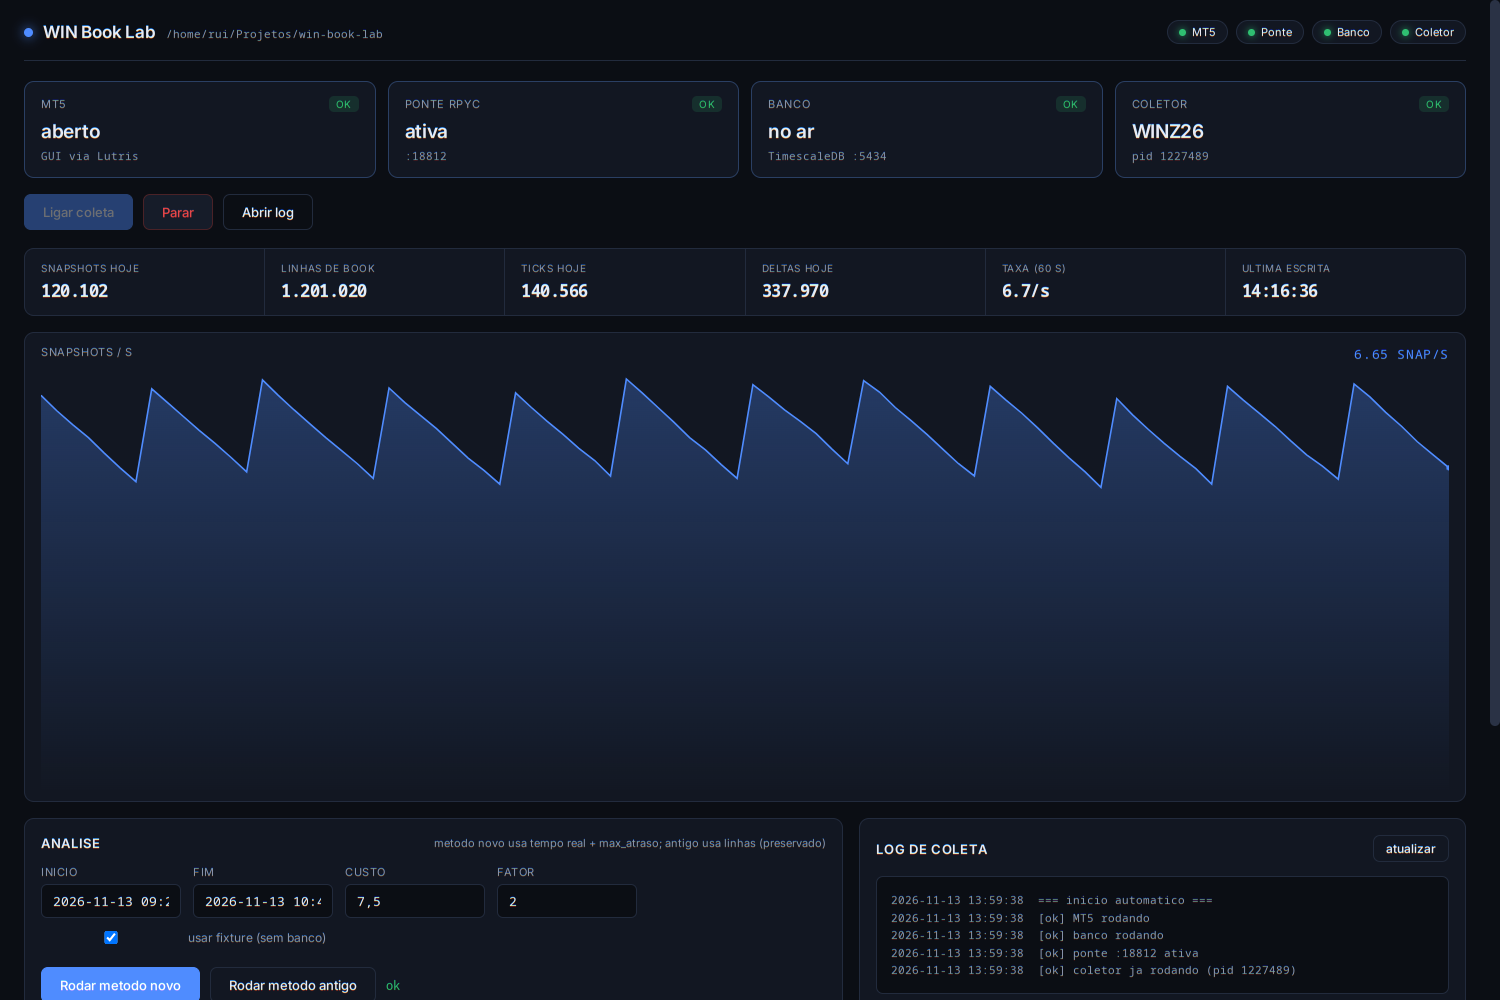
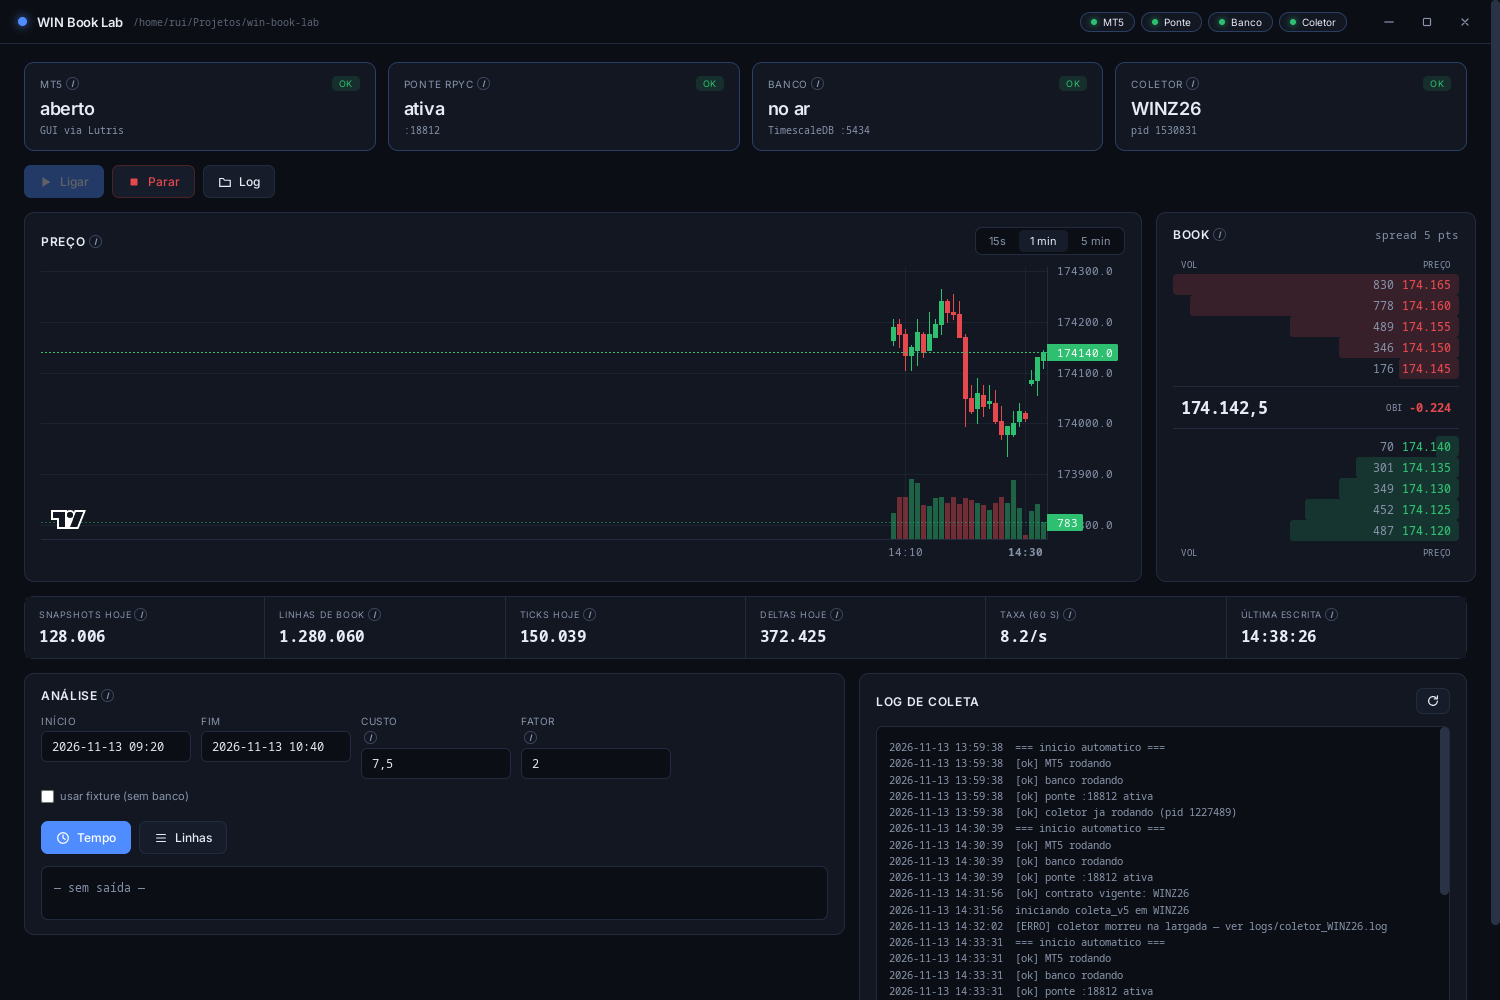
Grafico fiel ao MT5 + flush de 2s: corrige 'diferente do MT5' e 'taxa minima'
Dois problemas relatados pelo dono. Nenhum era o que parecia.

1) GRAFICO DIFERENTE DO MT5
   Causa real: o eixo estava em UTC. O banco guarda timestamptz, extract(epoch)
   devolve UTC e o lightweight-charts mostra o que recebe — o eixo dizia 17:25
   quando eram 14:25, o que desalinha tudo visualmente.
   Correcao: TZ_OFFSET de -3h ao montar o time do chart.
   Segunda causa: os candles vinham do MID (construcao nossa) em bucket de 5 s.
   Trocado para tick.last — o preco negociado, que e o que o MT5 desenha — em
   bucket de 1 min (com 15s/5min como opcao). getSeries() -> getCandles().
   PROVA: candle a candle contra copy_rates_from_pos(M1). 14:36 fechou identico
   (174085 = 174085); 14:37 e 14:38 diferem 1-2 ticks porque o candle do banco
   ainda esta em formacao.

2) TAXA DE ATUALIZACAO MINIMA
   Causa real: NAO era a UI. O coletor rodava com --flush-seg 15, ou seja,
   acumulava 15 s antes de gravar. O banco so via dado novo a cada 15 s.
   Correcao: FLUSH_SEG=2 em coleta_auto.sh; o painel passou a atualizar o
   grafico a 1 s com series.update() incremental (setData completo so a cada
   30 s para backfill). Medido: 11-14 ticks e ~100 linhas de book por 2 s,
   candle evoluindo 174085/vol=23 -> 174090/vol=62 -> 174090/vol=200.

3) BUGS ENCONTRADOS NO CAMINHO (todos com causa medida)
   - symbols_get() devolve 52.506 simbolos em 39 s e travava o auto-start.
     Extraido scripts/detecta_contrato.py: 24 candidatos via symbol_info,
[…]

diff --git a/app/renderer/app.js b/app/renderer/app.js
@@ -2,8 +2,11 @@
 let chartApi = null;          // lightweight-charts
 let candleSeries = null;
 let volSeries = null;
-let minutos = 5;              // janela do grafico
+let minutos = 30;             // janela do grafico (min)
+let bucket = 60;              // segundos por candle
 let busySeries = false;
+let ultimoSetData = 0;
+const TZ_OFFSET = 3 * 3600;   // MT5/banco guarda em UTC+0; exibimos BRT (UTC-3)
 
 const $ = id => document.getElementById(id);
 const fmt = n => (n === undefined || n === null || isNaN(n)) ? '—' : n.toLocaleString('pt-BR');
@@ -156,38 +159,40 @@ function initChart() {
   setTimeout(resize, 60);
 }
 
-// agrega pontos (1/s) em candles de `bucket` segundos + volume
-function toCandles(pontos, bucket = 5) {
-  const map = new Map();
-  for (const p of pontos) {
-    const b = Math.floor(p.ts / 1000 / bucket) * bucket;
-    if (!map.has(b)) map.set(b, { o: p.mid, h: p.mid, l: p.mid, c: p.mid, v: 0 });
-    const c = map.get(b);
-    c.h = Math.max(c.h, p.mid);
-    c.l = Math.min(c.l, p.mid);
-    c.c = p.mid;
-    c.v += p.vol;
-  }
-  const candles = [], volumes = [];
-  for (const [t, c] of [...map.entries()].sort((a, b) => a[0] - b[0])) {
+// Converte candles do banco para o formato do lightweight-charts.
+// O banco entrega epoch em UTC; o chart exibe o que recebe, entao deslocamos
+// para BRT — senao o eixo mostra 17:25 quando sao 14:25.
+function paraChart(cs) {
+  const candles = [], vols = [];
+  for (const c of cs) {
+    const t = c.ts - TZ_OFFSET;
     candles.push({ time: t, open: c.o, high: c.h, low: c.l, close: c.c });
-    volumes.push({
+    vols.push({
       time: t, value: c.v,
-      color: c.c >= c.o ? 'rgba(47,191,113,.42)' : 'rgba(229,72,77,.42)',
+      color: c.c >= c.o ? 'rgba(47,191,113,.45)' : 'rgba(229,72,77,.45)',
     });
   }
-  return { candles, volumes };
+  return { candles, vols };
 }
 
-async function carregaGrafico() {
+async function carregaGrafico(completo = false) {
   if (busySeries || !candleSeries) return;
   busySeries = true;
   try {
-    const r = await window.lab.series(minutos);
-    if (r.erro || !r.pontos || !r.pontos.length) return;
-    const { candles, volumes } = toCandles(r.pontos, 5);
-    candleSeries.setData(candles);
-    volSeries.setData(volumes);
+    const r = await window.lab.candles(minutos, bucket);
+    if (r.erro || !r.candles || !r.candles.length) return;
+    const { candles, vols } = paraChart(r.candles);
+
+    // setData completo a cada 30 s (backfill); entre isso, so o ultimo candle
+    const agora = Date.now();
+    if (completo || candles.length < 2 || agora - ultimoSetData > 30000) {
+      candleSeries.setData(candles);
+      volSeries.setData(vols);
+      ultimoSetData = agora;
+    } else {
+      candleSeries.update(candles[candles.length - 1]);
+      volSeries.update(vols[vols.length - 1]);
+    }
   } catch (e) {
     console.error('grafico:', e);
   } finally {
@@ -202,7 +207,9 @@ $('tf').addEventListener('click', e => {
   [...$('tf').children].forEach(x => x.classList.remove('on'));
   b.classList.add('on');
   minutos = parseInt(b.dataset.min, 10);
-  carregaGrafico();
+  bucket = parseInt(b.dataset.bucket, 10);
+  ultimoSetData = 0;             // forca setData completo ao trocar de janela
+  carregaGrafico(true);
 });
 
 // ==================== loop ====================
@@ -281,7 +288,7 @@ window.addEventListener('unhandledrejection', e => {
     $('repo-path').textContent = await window.lab.repo();
     $('log-out').textContent = await window.lab.logtail();
     await tick();
-    await carregaGrafico();
+    await carregaGrafico(true);
   } catch (err) {
     window.__erros.push('boot: ' + err.message);
     $('log-out').textContent = 'FALHA NO BOOT: ' + err.message + '\n' + err.stack;
@@ -289,7 +296,7 @@ window.addEventListener('unhandledrejection', e => {
     return;
   }
 
-  setInterval(tick, 2000);            // status, metricas, book
-  setInterval(carregaGrafico, 5000);  // grafico
+  setInterval(tick, 1500);                    // status, metricas, book
+  setInterval(() => carregaGrafico(false), 1000);  // grafico a 1 s, incremental
   window.__ready = true;              // sinaliza boot completo (usado nos testes)
 })();

diff --git a/app/lib/lab.js b/app/lib/lab.js
@@ -153,40 +153,46 @@ async function getBook() {
   };
 }
 
-// ---------- SERIE PARA O GRAFICO ----------
-function sqlSerie(min) {
+// ---------- CANDLES (fieis ao MT5) ----------
+// Usa o preco NEGOCIADO (tick.last), que e o que o MT5 mostra no grafico.
+// Nao usa mid: mid e construcao nossa e diverge do candle do MT5.
+function sqlCandles(min, bucket) {
   return `
-WITH b AS (
-  SELECT date_trunc('second', ts) t,
-    (max(CASE WHEN lado=2 THEN preco END) + min(CASE WHEN lado=1 THEN preco END)) / 2.0 AS mid
-  FROM book WHERE ts >= now() - interval '${min} minutes' GROUP BY 1
-),
-v AS (
-  SELECT date_trunc('second', ts) t, sum(volume) vol
-  FROM tick WHERE ts >= now() - interval '${min} minutes' GROUP BY 1
+WITH x AS (
+  SELECT to_timestamp(floor(extract(epoch FROM ts) / ${bucket}) * ${bucket}) AS b,
+         last, volume, ts AS tr
+  FROM tick
+  WHERE ts >= now() - interval '${min} minutes' AND last > 0
 )
-SELECT extract(epoch FROM b.t)::bigint AS ts, round(b.mid::numeric,1) AS mid, COALESCE(v.vol,0) AS vol
-FROM b LEFT JOIN v ON b.t = v.t ORDER BY b.t;
+SELECT extract(epoch FROM b)::bigint AS ts,
+       (array_agg(last ORDER BY tr))[1]      AS o,
+       max(last)                            AS h,
+       min(last)                            AS l,
+       (array_agg(last ORDER BY tr DESC))[1] AS c,
+       sum(volume)                          AS v
+FROM x GROUP BY b ORDER BY b;
 `;
 }
 
-async function getSeries(min = 10) {
-  const m = Math.max(1, Math.min(120, parseInt(min, 10) || 10));  // clamp, sem injecao
+async function getCandles(min = 30, bucket = 60) {
+  const m = Math.max(1, Math.min(180, parseInt(min, 10) || 30));
+  const b = Math.max(5, Math.min(300, parseInt(bucket, 10) || 60));
   const r = await run('docker', ['exec', 'mercado-db', 'psql', '-U', 'postgres',
-    '-d', 'mercado', '-t', '-A', '-F', '|', '-c', sqlSerie(m)]);
-  if (!r.ok) return { erro: r.err.split('\n')[0] || 'banco indisponivel', pontos: [] };
-  const pontos = [];
+    '-d', 'mercado', '-t', '-A', '-F', '|', '-c', sqlCandles(m, b)]);
+  if (!r.ok) return { erro: r.err.split('\n')[0] || 'banco indisponivel', candles: [] };
+  const candles = [];
   for (const ln of r.out.split('\n')) {
     if (!ln) continue;
-    const [ts, mid, vol] = ln.split('|');
-    if (!ts || !mid) continue;
-    pontos.push({ ts: +ts * 1000, mid: +mid, vol: +vol });
+    const [ts, o, h, l, c, v] = ln.split('|');
+    if (!ts) continue;
+    candles.push({ ts: +ts, o: +o, h: +h, l: +l, c: +c, v: +v });
   }
-  return { pontos, minutos: m };
+  return { candles, minutos: m, bucket: b };
 }
+
 
 module.exports = {
   REPO, VENV_PY, LOG_DIR, DSN, run,
   getStatus, dbStats, startCollection, stopCollection, runAnalysis, tailLog, listLogs,
-  getBook, getSeries,
+  getBook, getCandles,
 };

diff --git a/app/renderer/index.html b/app/renderer/index.html
@@ -108,12 +108,12 @@
     <div class="panel chart-panel">
       <div class="panel-head">
         <h2>Preço
-          <span class="info" data-tip="Mid = (melhor bid + melhor ask) / 2, agregado por segundo. Candles de 5 s montados no cliente. Barras embaixo = volume negociado por segundo.">i</span>
+          <span class="info" data-tip="Candles do preço NEGOCIADO (tick.last), igual ao gráfico do MT5 — não é mid. Fuso em BRT. Barras embaixo = volume negociado no candle. Atualiza a cada segundo.">i</span>
         </h2>
         <div class="seg" id="tf">
-          <button data-min="5" class="on">5 min</button>
-          <button data-min="10">10 min</button>
-          <button data-min="30">30 min</button>
+          <button data-min="10" data-bucket="15">15s</button>
+          <button data-min="30" data-bucket="60" class="on">1 min</button>
+          <button data-min="120" data-bucket="300">5 min</button>
         </div>
       </div>
       <div id="chart" class="chart"></div>

diff --git a/app/main.js b/app/main.js
@@ -31,7 +31,7 @@ function createWindow() {
 ipcMain.handle('status',   () => lab.getStatus());
 ipcMain.handle('dbstats',  () => lab.dbStats());
 ipcMain.handle('book',     () => lab.getBook());
-ipcMain.handle('series',   (_e, min) => lab.getSeries(min));
+ipcMain.handle('candles',  (_e, min, bucket) => lab.getCandles(min, bucket));
 ipcMain.handle('start',    () => lab.startCollection());
 ipcMain.handle('stop',     () => lab.stopCollection());
 ipcMain.handle('analysis', (_e, m, o) => lab.runAnalysis(m, o));

diff --git a/app/preload.js b/app/preload.js
@@ -4,7 +4,7 @@ contextBridge.exposeInMainWorld('lab', {
   status:    () => ipcRenderer.invoke('status'),
   dbstats:   () => ipcRenderer.invoke('dbstats'),
   book:      () => ipcRenderer.invoke('book'),
-  series:    (min) => ipcRenderer.invoke('series', min),
+  candles:   (min, bucket) => ipcRenderer.invoke('candles', min, bucket),
   start:     () => ipcRenderer.invoke('start'),
   stop:      () => ipcRenderer.invoke('stop'),
   analysis:  (method, opts) => ipcRenderer.invoke('analysis', method, opts),

diff --git a/scripts/detecta_contrato.py b/scripts/detecta_contrato.py
@@ -1,0 +1,80 @@
+#!/usr/bin/env python3
+"""Detecta o contrato WIN vigente (o de vencimento mais proximo ainda nao vencido).
+
+POR QUE NAO USA symbols_get():
+    mt5.symbols_get() devolve 52.506 simbolos e leva 39 s (medido 13/11/2026).
+    Testar 24 candidatos com symbol_info() leva 0,45 s.
+
+USO:
+    python scripts/detecta_contrato.py            # imprime o simbolo, ou vazio
+    python scripts/detecta_contrato.py --verbose  # mostra os candidatos
+
+Sai com codigo 0 e simbolo vazio se a ponte estiver fora — quem chama decide.
+"""
+import sys
+import datetime
+
+PONTE = "127.0.0.1"
+PORTA = 18812
+# letras de vencimento do WIN na B3 (F=jan, G=fev, H=mar, J=abr, K=mai, M=jun,
+# N=jul, Q=ago, U=set, V=out, X=nov, Z=dez)
+LETRAS = "FGHJKMNQUVXZ"
+
+
+def candidatos(mt5, hoje):
+    """Contratos WIN existentes e nao vencidos, ordenados por vencimento."""
+    out = []
+    for ano in (hoje.year, hoje.year + 1):
+        for i, letra in enumerate(LETRAS):
+            nome = f"WIN{letra}{ano % 100:02d}"
+            if mt5.symbol_info(nome) is None:
+                continue
+            venc = datetime.date(ano, i + 1, 15)   # vencimento ~dia 15
+            if venc >= hoje:
+                out.append((venc, nome))
+    out.sort()
+    return out
+
+
+def detecta(verbose=False):
+    try:
+        import rpyc
+    except ImportError:
+        print("rpyc nao instalado", file=sys.stderr)
+        return ""
+
+    try:
+        c = rpyc.classic.connect(PONTE, PORTA)
+        c._config["sync_request_timeout"] = 20
+        mt5 = c.modules["MetaTrader5"]
+        if not mt5.initialize():
+            print("initialize falhou", file=sys.stderr)
+            return ""
+        cand = candidatos(mt5, datetime.date.today())
+        if verbose:
+            for v, n in cand:
+                print(f"  {n}  vence {v}", file=sys.stderr)
+        return cand[0][1] if cand else ""
+    except Exception as e:
+        print(f"erro na ponte: {e}", file=sys.stderr)
+        return ""
+
+
+if __name__ == "__main__":
+    verbose = "--verbose" in sys.argv or "-v" in sys.argv
+    simbolo = detecta(verbose)
+
+    if not simbolo:
+        try:
+            import rpyc  # noqa: F401
+        except ImportError:
+            sys.exit(3)          # sem rpyc
+        sys.exit(2)              # ponte fora ou nada encontrado
+
+    # rejeita qualquer coisa que nao seja WIN<letra><2 digitos>
+    import re
+    if not re.fullmatch(r"WIN[FGHJKMNQUVXZ]\d{2}", simbolo):
+        print(f"simbolo inesperado: {simbolo}", file=sys.stderr)
+        sys.exit(4)
+
+    print(simbolo)

diff --git a/app/README.md b/app/README.md
@@ -65,6 +65,30 @@ idempotencia do `start`.
   com array de argumentos, nao por shell
 - O app nunca envia ordem nem escreve no banco
 
+## Fidelidade ao MT5
+
+O gráfico usa **tick.last** (preço negociado), que é o que o MT5 desenha — não o mid.
+Verificado candle a candle contra `copy_rates_from_pos(WINZ26, TIMEFRAME_M1)`:
+fechamento idêntico no candle já fechado, diferença de 1–2 ticks no candle em formação.
+
+O eixo de tempo é deslocado para **BRT**. O banco guarda `timestamptz`; `extract(epoch)`
+devolve UTC, e o lightweight-charts exibe o que recebe — sem o deslocamento o eixo
+mostrava 17:25 quando eram 14:25.
+
+## Taxa de atualização
+
+Três coisas controlam o que você vê:
+
+| etapa | valor | onde |
+|---|---|---|
+| leitura do book | ~8,5 Hz | coletor (`time.sleep(0.001)`) |
+| **gravação no banco** | **a cada 2 s** | `FLUSH_SEG` em `coleta_auto.sh` |
+| leitura pelo painel | 1 s | `setInterval` em `renderer/app.js` |
+
+O gargalo era o **flush**: com `--flush-seg 15` o banco só recebia a cada 15 s, então
+o painel parecia travado mesmo com a UI atualizando a cada segundo. Agora grava a cada
+2 s (`FLUSH_SEG=2`, e o coletor usa `--flush-seg 2`). Para mudar, edite `FLUSH_SEG`.
+
 ## Dependencias
 
 Node >= 20 e Electron 33. `node_modules` fica fora do git (`app/.gitignore`).
